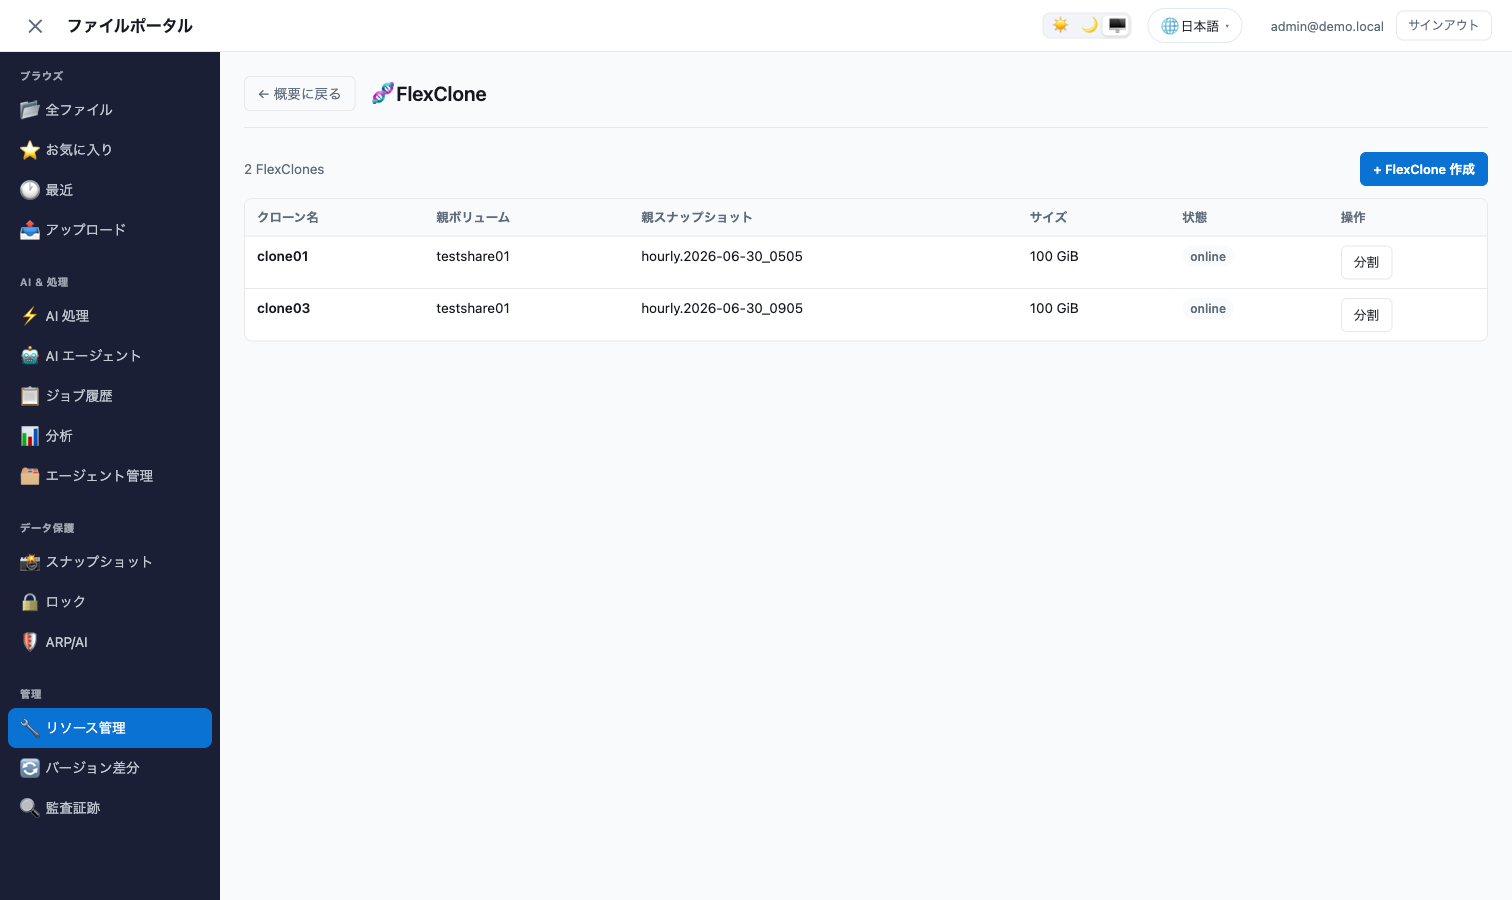
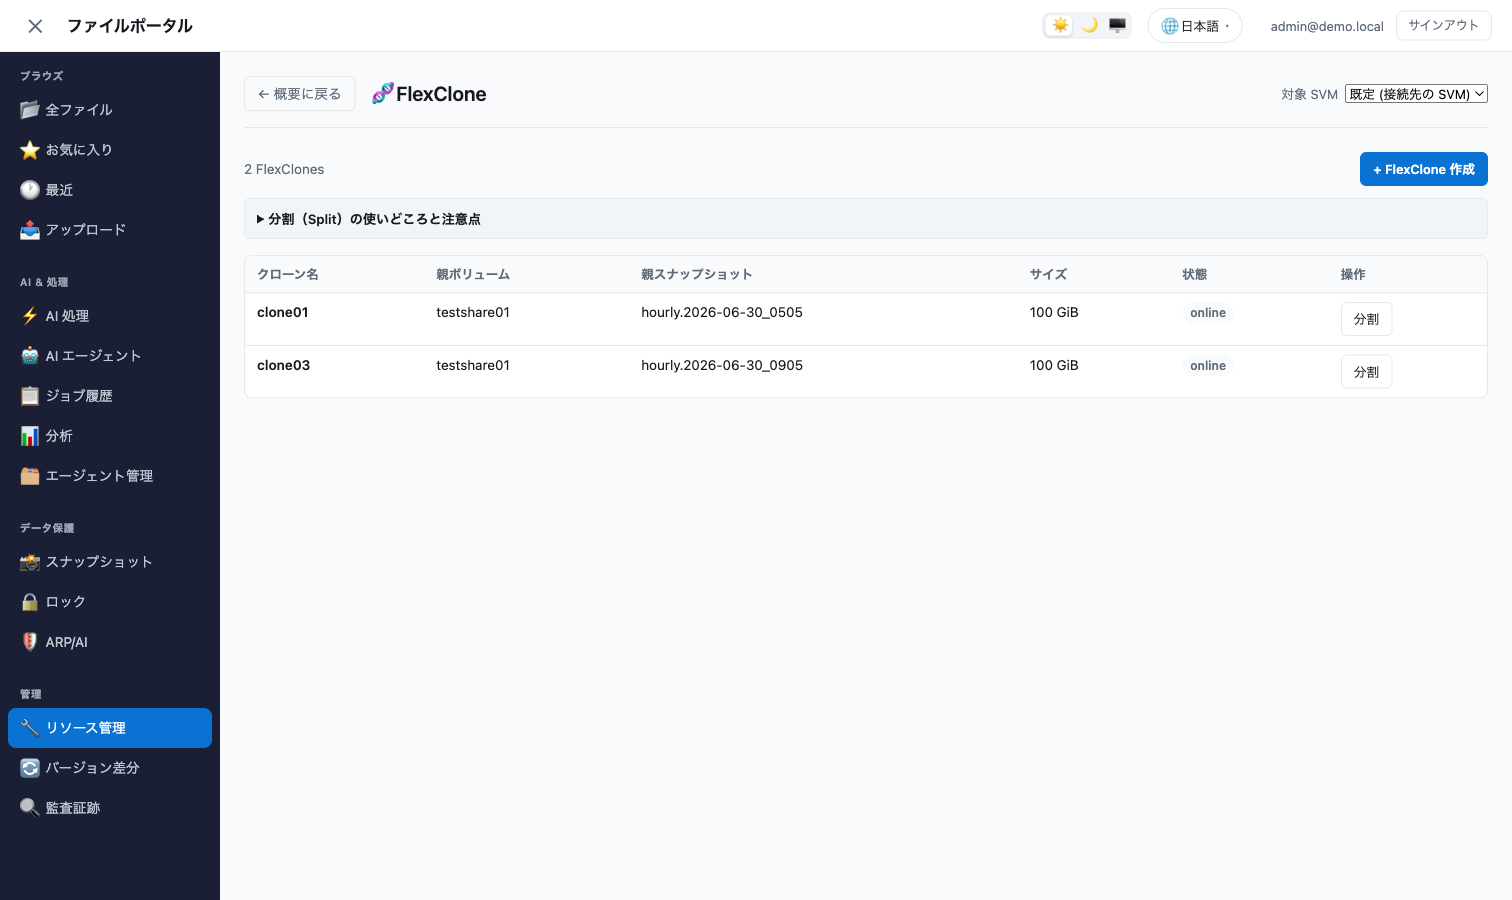
docs: re-capture the portal screenshots the volume work made stale (#306)
Three published screenshots showed a UI that no longer exists, and the
re-capture found three defects that only a rendered page reveals.

volumes-panel had six columns and one capacity number: no volume style, no
split between live data and snapshots, no spill warning, no rebalance action.
snapshots-version-history predated both the SVM-to-volume scope bar and the note
on how snapshots hold capacity. flexclone-manager predated the split guidance
entirely. A fourth screenshot is new: the FlexGroup rebalance panel had none.

The ARP admin screenshot is left alone deliberately. The only thing that changed
there was the threat badge's fill, from a hex literal to a token, and the badge
is not rendered on a volume whose attack probability is none -- which is every
row in that shot.

Found while capturing:

The action column stopped lining up with its rows. `.action-cell` was
`display: flex`, which takes a td out of the table's layout: it no longer
stretches to the row's height and no longer inherits the `vertical-align:
middle` that `.admin-table td` sets. Neither mattered while every row was one
line tall. With the capacity breakdown the cell came out 18px shorter than its
row, so the buttons sat level with the row above and the row separator stopped
short of the last column. Spacing by margin keeps the cell a cell; the two
media queries that relied on `flex-direction` stack the buttons as blocks now.
[…]

diff --git a/solutions/amplify-portal/src/index.css b/solutions/amplify-portal/src/index.css
@@ -2883,13 +2883,17 @@ button[type="submit"]:disabled {
   }
 
   /* The two action buttons side by side are what pushed the last column over the
-     edge, so they stack. The cell is a flex row, so the direction is what decides
-     this: `display: block` on the buttons does nothing, because a flex container
-     blockifies its children and keeps them on the main axis regardless. */
-  .snapshot-table .action-cell {
-    flex-direction: column;
-    align-items: stretch;
-    gap: 0.25rem;
+     edge, so they stack. This used to set `flex-direction` because the cell was a
+     flex container; it is a table cell again, so the buttons are blocked out and
+     spaced by margin instead. */
+  .snapshot-table .action-cell > * {
+    display: block;
+    width: 100%;
+  }
+
+  .snapshot-table .action-cell > * + * {
+    margin-left: 0;
+    margin-top: 0.25rem;
   }
 
   /* Without this the column collapses to about 50px and "ロック" wraps one character
@@ -3907,8 +3911,16 @@ button[type="submit"]:disabled {
   /* The cell is a flex row, so the direction is what stacks the buttons. `display:
      block` on them does nothing -- a flex container blockifies its children and keeps
      them on the main axis regardless. Same reasoning as .snapshot-table above. */
-  .admin-table .action-cell {
-    flex-direction: column;
+  /* Stacked on a narrow screen. The cell is no longer a flex container, so the
+     direction that used to do this is gone and the buttons stack as blocks. */
+  .admin-table .action-cell > * {
+    display: block;
+    width: 100%;
+  }
+
+  .admin-table .action-cell > * + * {
+    margin-left: 0;
+    margin-top: 0.25rem;
   }
 
   /* The dropdown keeps its 250px minimum. Relaxing it here looked necessary and was
@@ -4233,9 +4245,20 @@ button[type="submit"]:disabled {
   font-size: 0.9rem;
 }
 
+/* Buttons in a row, in a cell that is still a table cell.
+   This was `display: flex` with a gap, which takes the td out of the table's own
+   layout: it stops stretching to the row's height and stops inheriting the
+   `vertical-align: middle` that `.admin-table td` sets. Neither showed while every
+   row was a single line. The volume table's rows now carry a capacity breakdown
+   under the bar, and the cell came out 18px shorter than its row -- so the buttons
+   sat level with the row above and the row separator stopped short of the last
+   column. Spacing by margin keeps the cell a cell. */
 .action-cell {
-  display: flex;
-  gap: 0.3rem;
+  white-space: nowrap;
+}
+
+.action-cell > * + * {
+  margin-left: 0.3rem;
 }
 
 /* Badge */

diff --git a/solutions/amplify-portal/src/utils/duration.ts b/solutions/amplify-portal/src/utils/duration.ts
@@ -40,13 +40,22 @@ const fill = (template: string, values: Record<string, string | number>): string
 export function durationLabel(period: string, t: Translate): string {
   if (period === "custom") return t("durationCustom");
 
-  // Hours, which arrived with the FlexGroup rebalance runtimes. ONTAP's default there
-  // is PT6H and the select offered it raw, because the fallback below returns the
-  // period unchanged -- readable to somebody who knows ISO-8601 and to nobody else.
-  const hours = /^PT(\d+)H$/.exec(period);
-  if (hours) {
-    const count = Number(hours[1]);
-    return fill(t(count === 1 ? "durationHour" : "durationHours"), { n: count });
+  // Hours and minutes, which arrived with the FlexGroup rebalance runtimes. The
+  // fallback below returns the period unchanged -- readable to somebody who knows
+  // ISO-8601 and to nobody else -- so the select offered ONTAP's default as "PT6H"
+  // and then, once 30 minutes led the list, as "PT30M".
+  //
+  // The `T` is required rather than optional: `P30M` is thirty months and `PT30M` is
+  // thirty minutes, and the two differ by a factor of about forty thousand.
+  const time = /^PT(?:(\d+)H)?(?:(\d+)M)?$/.exec(period);
+  if (time && (time[1] || time[2])) {
+    const hours = Number(time[1] ?? 0);
+    const minutes = Number(time[2] ?? 0);
+    if (hours && !minutes) return fill(t(hours === 1 ? "durationHour" : "durationHours"), { n: hours });
+    if (minutes && !hours) return fill(t(minutes === 1 ? "durationMinute" : "durationMinutes"), { n: minutes });
+    // A mixed value is a clock, for the same reason an elapsed time is one below:
+    // composing two translated patterns reads worse than "1:30" in every language.
+    return elapsedLabel(period);
   }
 
   const match = /^P(\d+)D$/.exec(period);

diff --git a/solutions/amplify-portal/tests/utils/duration.test.ts b/solutions/amplify-portal/tests/utils/duration.test.ts
@@ -79,6 +79,20 @@ describe("durationLabel", () => {
     expect(durationLabel("P7D", tEn)).toBe("7 days");
   });
 
+  it("labels minutes, and does not confuse them with months", () => {
+    // ONTAP's floor for a rebalance runtime is 30 minutes, so PT30M leads that select
+    // and was rendering as the raw period. P30M is thirty months, which is why the
+    // `T` decides this rather than the `M`.
+    expect(durationLabel("PT30M", tEn)).toBe("30 minutes");
+    expect(durationLabel("PT1M", tEn)).toBe("1 minute");
+    expect(durationLabel("PT30M", t)).toBe("30分");
+    expect(durationLabel("P30M", tEn)).toBe("P30M");
+  });
+
+  it("renders a mixed hours-and-minutes period as a clock", () => {
+    expect(durationLabel("PT1H30M", tEn)).toBe("1:30:00");
+  });
+
   it("labels hours, which the rebalance runtimes are counted in", () => {
     // The fallback below is why this was needed: the FlexGroup rebalance select
     // offered ONTAP's own default as the string "PT6H".
@@ -91,8 +105,8 @@ describe("durationLabel", () => {
     // A new period showing as "P42Y" is visible; showing as "" is not.
     expect(durationLabel("P42Y", tEn)).toBe("P42Y");
     expect(durationLabel("", tEn)).toBe("");
-    // Minutes are not offered anywhere, so they stay in the fallback.
-    expect(durationLabel("PT30M", tEn)).toBe("PT30M");
+    // Seconds are not offered anywhere as a period, so they stay in the fallback.
+    expect(durationLabel("PT45S", tEn)).toBe("PT45S");
   });
 });
 

diff --git a/solutions/amplify-portal/src/components/admin/VolumeRebalancePanel.tsx b/solutions/amplify-portal/src/components/admin/VolumeRebalancePanel.tsx
@@ -141,7 +141,10 @@ export function VolumeRebalancePanel({ volumeUuid, volumeName, onClose }: Props)
   const { t } = useTranslation();
   const [actionError, setActionError] = useState<string | null>(null);
   const [result, setResult] = useState<string | null>(null);
-  const [maxRuntime, setMaxRuntime] = useState("PT6H");
+  // The first of MAX_RUNTIMES, not ONTAP's own default of 6 hours. Reordering that
+  // list left this behind, so the select still opened on the one value that cannot
+  // start on a volume with a snapshot policy.
+  const [maxRuntime, setMaxRuntime] = useState(MAX_RUNTIMES[0]);
 
   const {
     data: status,

diff --git a/solutions/amplify-portal/src/i18n/locales/ja.ts b/solutions/amplify-portal/src/i18n/locales/ja.ts
@@ -160,6 +160,8 @@ export const ja = {
   arpResponseDisconnect: "SMB セッションを切断",
   arpResponseDisconnected: "セッションを切断しました",
 arpResponseSweepNote: "ブロックは指定した期限が過ぎると自動で解除されます。期限前に解除する場合は「有効なブロック」タブから操作してください。",
+  durationMinute: "{n}分",
+  durationMinutes: "{n}分",
   durationHour: "{n}時間",
   durationHours: "{n}時間",
   durationDay: "{n}日",

diff --git a/solutions/amplify-portal/src/i18n/locales/fr.ts b/solutions/amplify-portal/src/i18n/locales/fr.ts
@@ -155,6 +155,8 @@ export const fr: Record<TranslationKeys, string> = {
   arpResponseDisconnect: "Déconnecter les sessions SMB",
   arpResponseDisconnected: "Sessions déconnectées",
 arpResponseSweepNote: "Les blocages se lèvent d'eux-mêmes à l'échéance. Pour lever un blocage plus tôt, utilisez l'onglet Blocages actifs.",
+  durationMinute: "{n} minute",
+  durationMinutes: "{n} minutes",
   durationHour: "{n} heure",
   durationHours: "{n} heures",
   durationDay: "{n} jour",

diff --git a/solutions/amplify-portal/src/i18n/locales/ko.ts b/solutions/amplify-portal/src/i18n/locales/ko.ts
@@ -155,6 +155,8 @@ export const ko: Record<TranslationKeys, string> = {
   arpResponseDisconnect: "SMB 세션 끊기",
   arpResponseDisconnected: "세션을 끊었습니다",
 arpResponseSweepNote: "차단은 지정한 기한이 지나면 자동으로 해제됩니다. 더 빨리 해제하려면 '활성 차단' 탭을 사용하세요.",
+  durationMinute: "{n}분",
+  durationMinutes: "{n}분",
   durationHour: "{n}시간",
   durationHours: "{n}시간",
   durationDay: "{n}일",

diff --git a/solutions/amplify-portal/src/i18n/locales/de.ts b/solutions/amplify-portal/src/i18n/locales/de.ts
@@ -155,6 +155,8 @@ export const de: Record<TranslationKeys, string> = {
   arpResponseDisconnect: "SMB-Sitzungen trennen",
   arpResponseDisconnected: "Sitzungen getrennt",
 arpResponseSweepNote: "Sperren heben sich nach Ablauf der Frist selbst auf. Für eine frühere Aufhebung nutzen Sie den Tab „Aktive Sperren“.",
+  durationMinute: "{n} Minute",
+  durationMinutes: "{n} Minuten",
   durationHour: "{n} Stunde",
   durationHours: "{n} Stunden",
   durationDay: "{n} Tag",

diff --git a/solutions/amplify-portal/src/i18n/locales/es.ts b/solutions/amplify-portal/src/i18n/locales/es.ts
@@ -155,6 +155,8 @@ export const es: Record<TranslationKeys, string> = {
   arpResponseDisconnect: "Desconectar sesiones SMB",
   arpResponseDisconnected: "Sesiones desconectadas",
 arpResponseSweepNote: "Los bloqueos se levantan por sí solos al vencer el plazo. Para levantarlo antes, use la pestaña Bloqueos activos.",
+  durationMinute: "{n} minuto",
+  durationMinutes: "{n} minutos",
   durationHour: "{n} hora",
   durationHours: "{n} horas",
   durationDay: "{n} día",

diff --git a/solutions/amplify-portal/src/i18n/locales/zh-TW.ts b/solutions/amplify-portal/src/i18n/locales/zh-TW.ts
@@ -155,6 +155,8 @@ export const zhTW: Record<TranslationKeys, string> = {
   arpResponseDisconnect: "中斷 SMB 工作階段",
   arpResponseDisconnected: "已中斷工作階段",
 arpResponseSweepNote: "封鎖會在設定的期限過後自動解除。如需提前解除，請使用「有效封鎖」標籤頁。",
+  durationMinute: "{n} 分鐘",
+  durationMinutes: "{n} 分鐘",
   durationHour: "{n} 小時",
   durationHours: "{n} 小時",
   durationDay: "{n} 天",

diff --git a/solutions/amplify-portal/src/i18n/locales/zh-CN.ts b/solutions/amplify-portal/src/i18n/locales/zh-CN.ts
@@ -155,6 +155,8 @@ export const zhCN: Record<TranslationKeys, string> = {
   arpResponseDisconnect: "断开 SMB 会话",
   arpResponseDisconnected: "已断开会话",
 arpResponseSweepNote: "阻止会在设定的期限过后自动解除。如需提前解除，请使用“有效阻止”标签页。",
+  durationMinute: "{n} 分钟",
+  durationMinutes: "{n} 分钟",
   durationHour: "{n} 小时",
   durationHours: "{n} 小时",
   durationDay: "{n} 天",

diff --git a/solutions/amplify-portal/src/i18n/locales/en.ts b/solutions/amplify-portal/src/i18n/locales/en.ts
@@ -157,6 +157,8 @@ export const en: Record<TranslationKeys, string> = {
   arpResponseDisconnect: "Disconnect SMB sessions",
   arpResponseDisconnected: "Sessions disconnected",
 arpResponseSweepNote: "Blocks lift themselves once their expiry passes. To lift one sooner, use the Active Blocks tab.",
+  durationMinute: "{n} minute",
+  durationMinutes: "{n} minutes",
   durationHour: "{n} hour",
   durationHours: "{n} hours",
   durationDay: "{n} day",
